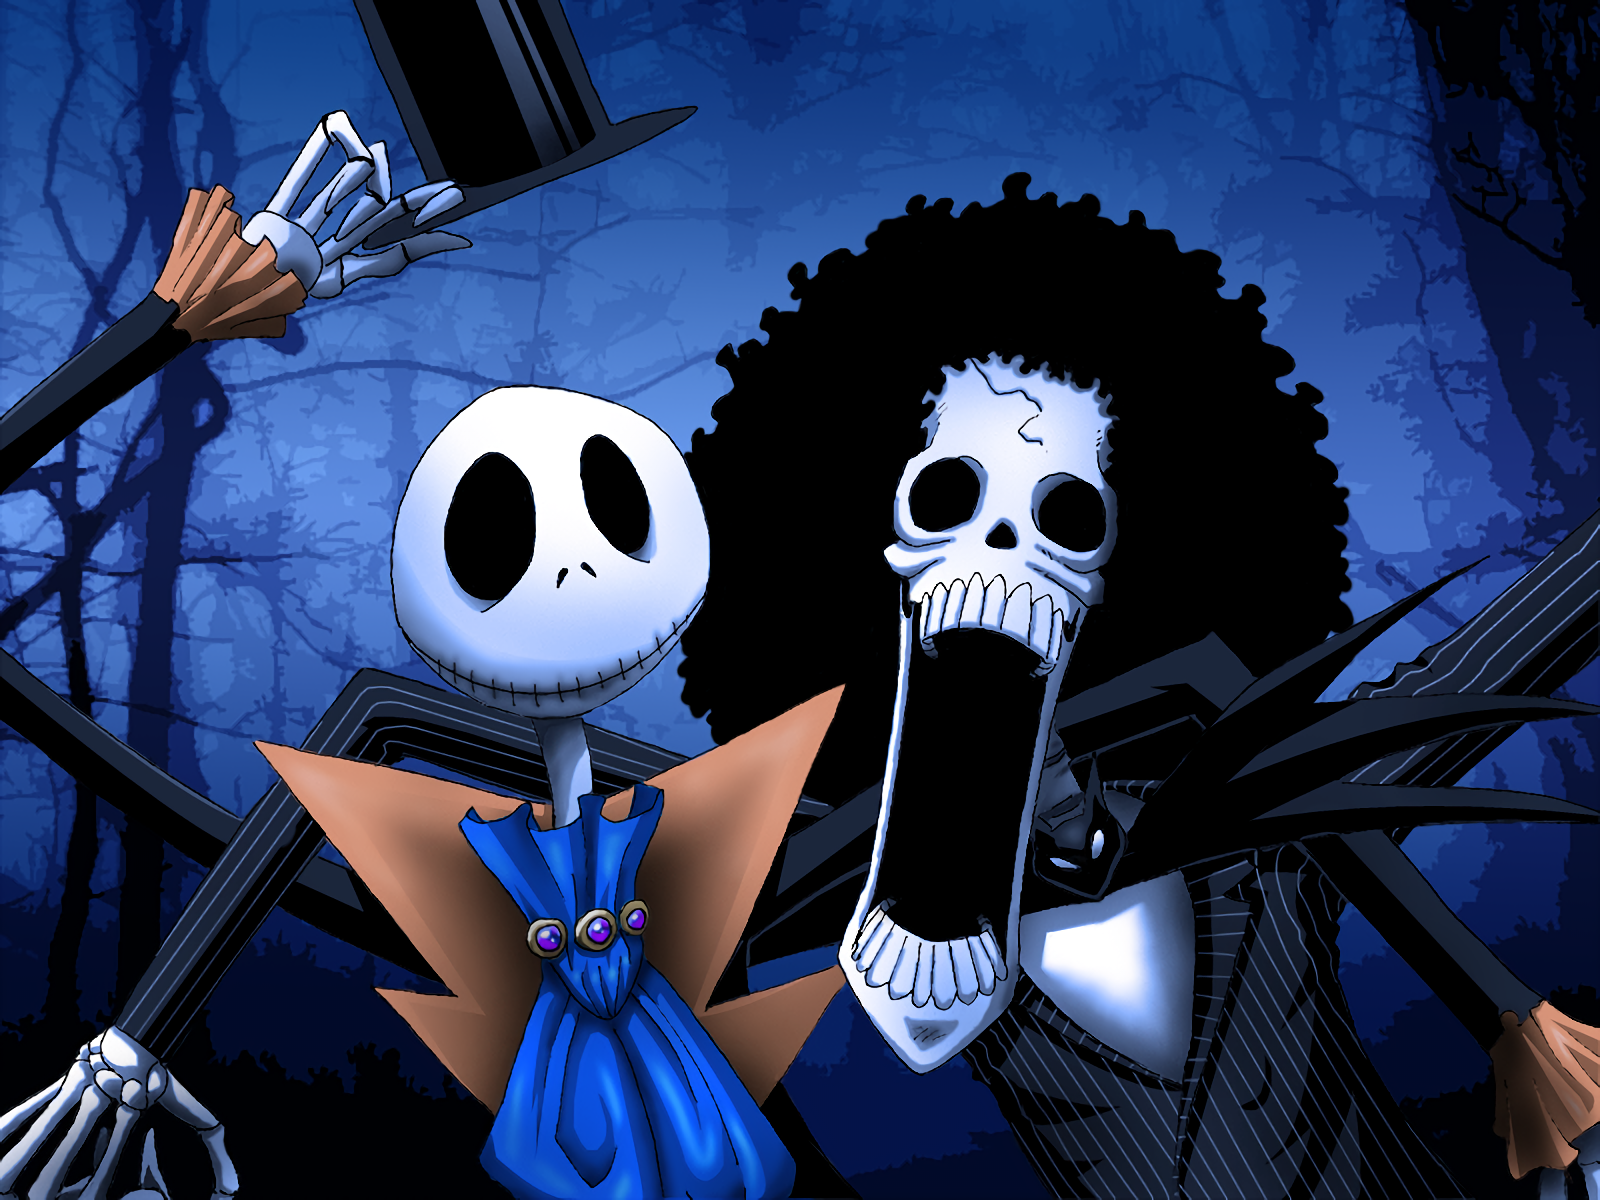
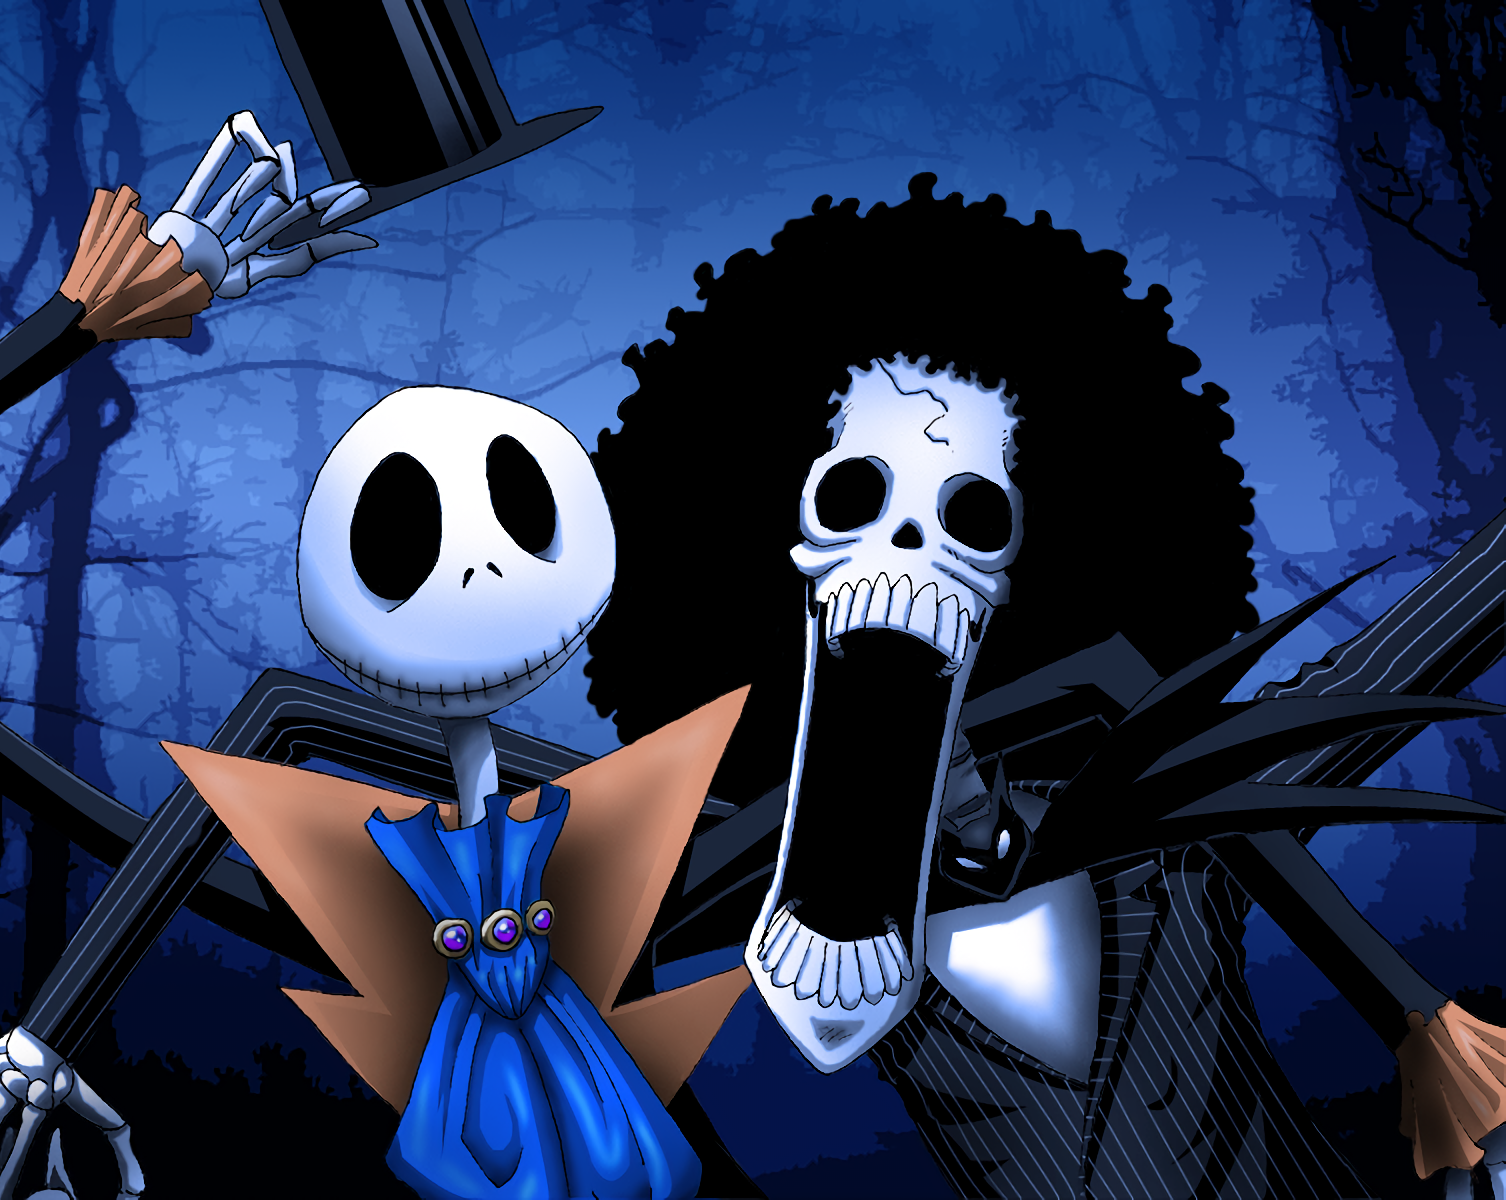
Att de imagem

diff --git a/src/css/estilos.css b/src/css/estilos.css
@@ -234,7 +234,7 @@ nav {
 
 .imagem-usopp {
     background-image: url(../imagens/usopp.jpg);
-    background-position: left center;
+    background-position: center center;
 }
 
 .imagem-sanji {
